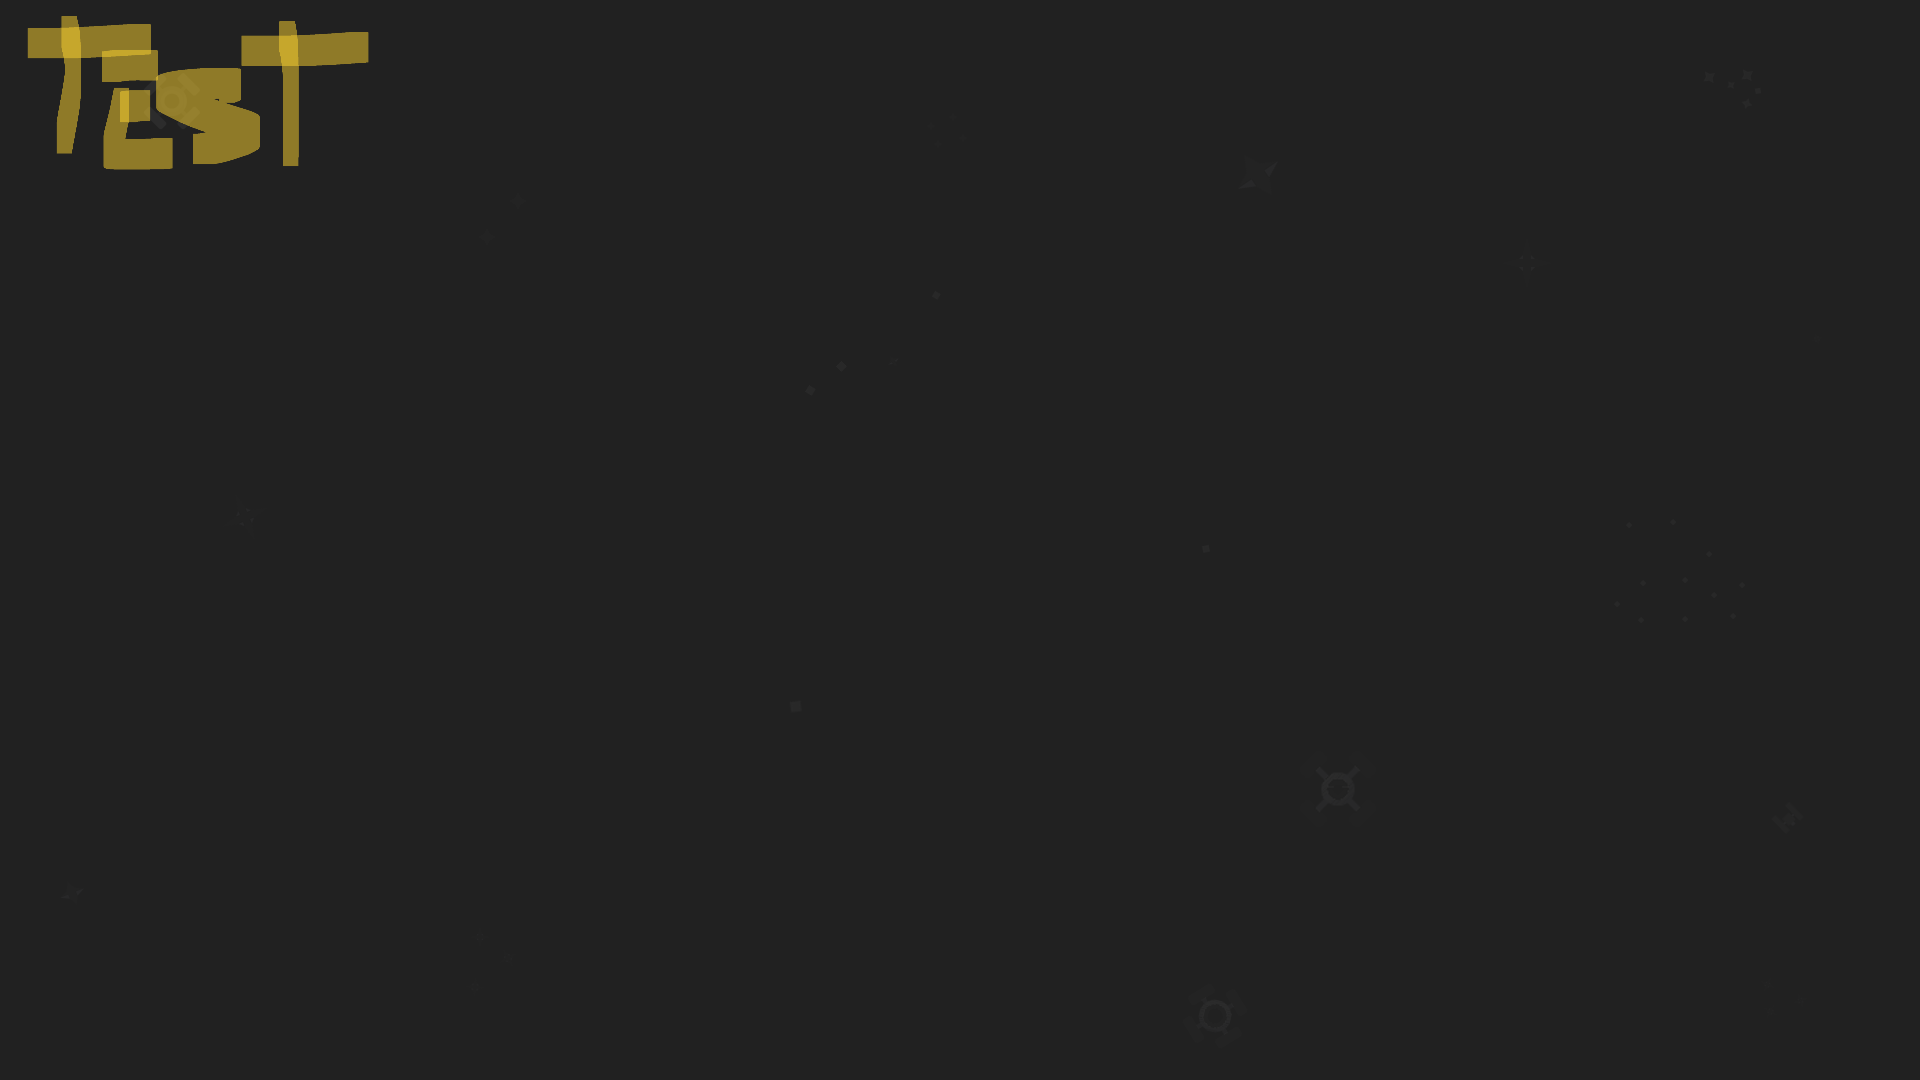
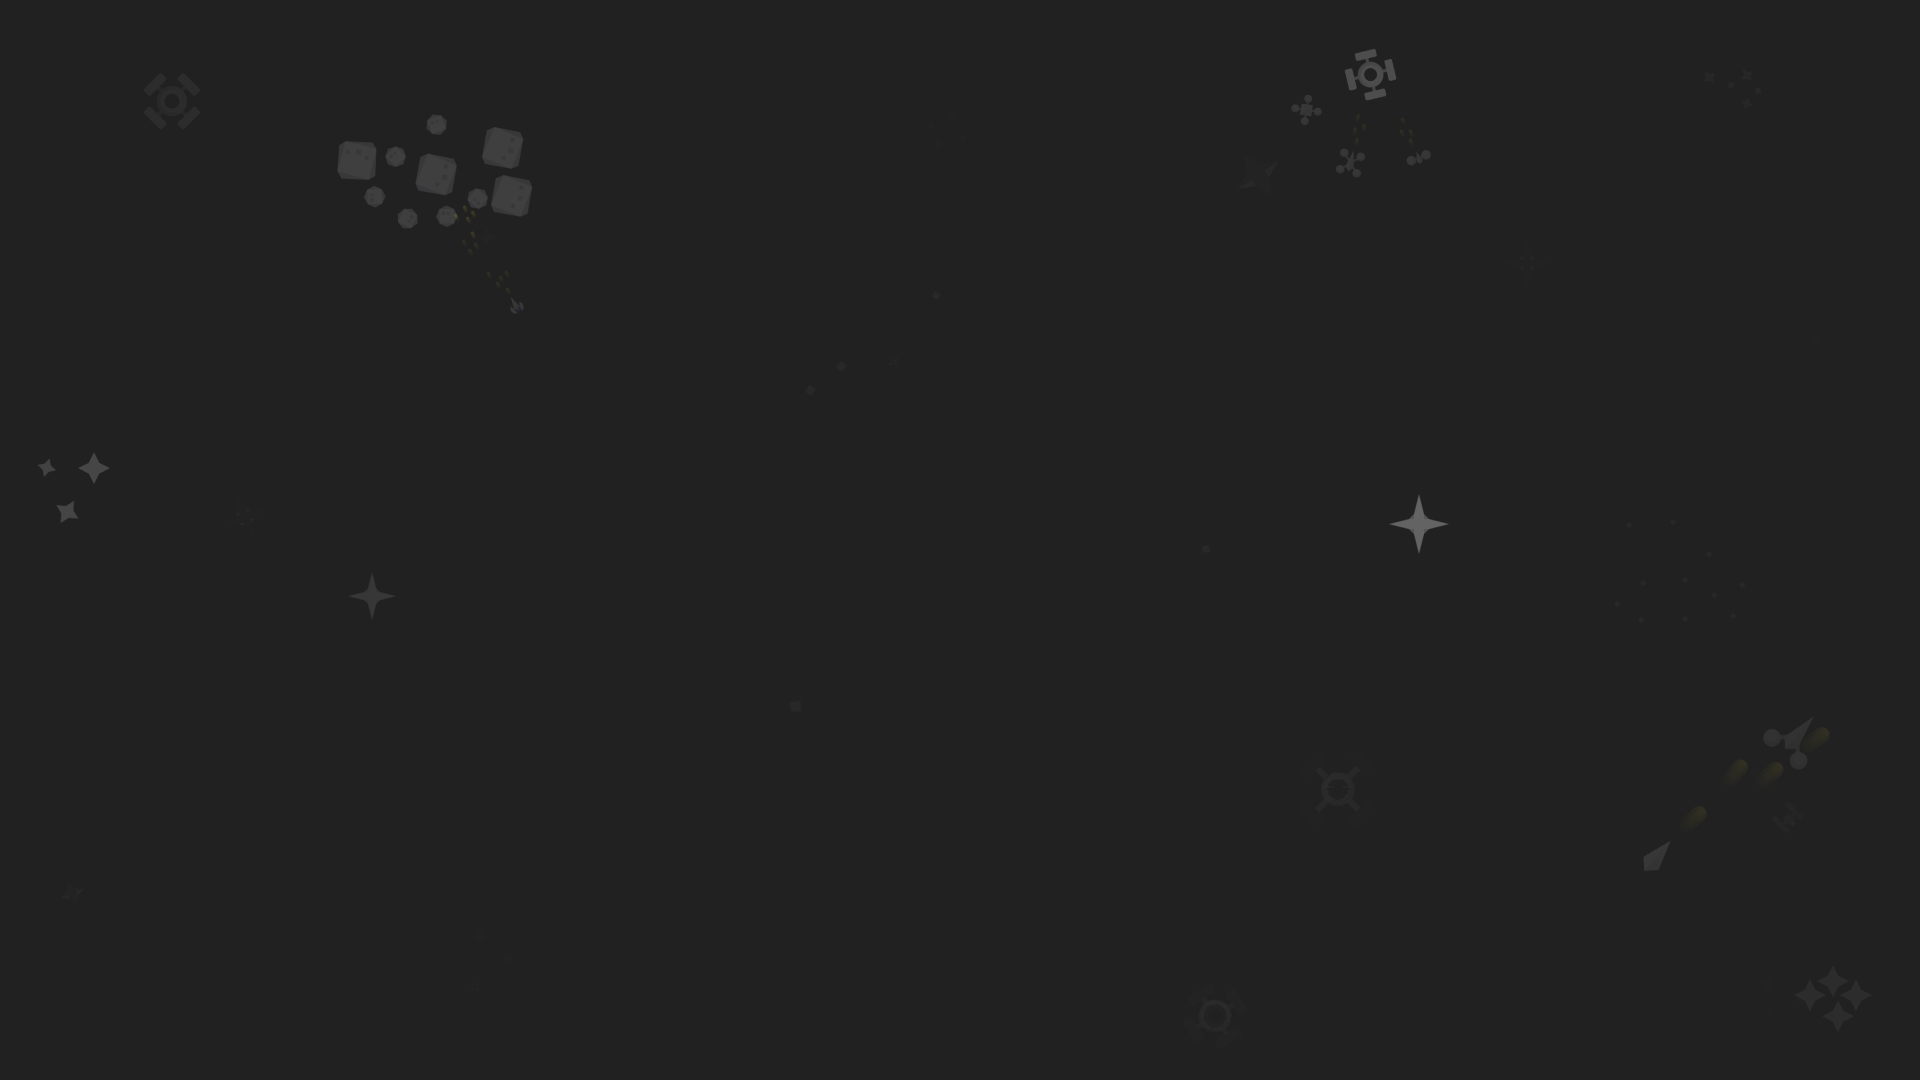
Splash Upgrade And Background Upgrade

diff --git a/src/SingletonManagers/ResourceManager.h b/src/SingletonManagers/ResourceManager.h
@@ -21,6 +21,8 @@ public:
 
 	sf::Texture* GetLifeUITexture();
 	sf::Texture* GetLifeLostUITexture();
+	sf::Texture* GetEnterUITexture();
+
 
 	sf::Font* GetOxaniumSemiBoldFont();
 
@@ -52,8 +54,10 @@ private:
 	sf::Texture* smallAsteroidTexture = nullptr;
 	sf::Texture* musicSwitchTexture = nullptr;
 	sf::Texture* impactTexture = nullptr;
+
 	sf::Texture* lifeUITexture = nullptr;
 	sf::Texture* lifeLostUITexture = nullptr;
+	sf::Texture* enterUITexture = nullptr;
 
 	sf::Font* oxaniumSemiBoldFont = nullptr;
 
@@ -66,9 +70,10 @@ private:
 	sf::Music* gameplayMusic = nullptr;
 	sf::Music* gameOverMusic = nullptr;
 
-
+	//Icon
 	const std::string pathImageIcon = "res/assets/System/iconBlack2.png";
 
+	//Gameplay
 	const std::string pathTextureSplash = "res/assets/Background/Splash.png";
 	const std::string pathTextureMenuBG = "res/assets/Background/Background00.png";
 	const std::string pathTexturePauseBG = "res/assets/Background/PauseBackground.png";
@@ -79,16 +84,22 @@ private:
 	const std::string pathTextureSmall = "res/assets/Enemies/MeteorSmall.png";
 	const std::string pathTextureMusicSwitch = "res/assets/UI/MusicMuteSwitch.png";
 	const std::string pathTextureHitEffect = "res/assets/Effects/HitEffect.png";
+
+	//UI
 	const std::string pathTextureLifeUI = "res/assets/UI/LifeUI.png";
 	const std::string pathTextureLifeLostUI = "res/assets/UI/LifelostUI.png";
+	const std::string pathTextureEnterUI = "res/assets/Background/Enter.png";
 
+	//Fonts
 	const std::string pathFontOxaniumSemiBold = "res/assets/Fonts/Oxanium-SemiBold.ttf";
 
+	//Sounds
 	const std::string pathSoundShootBuffer = "res/assets/Audio/SFX/PulseShot.wav";
 	const std::string pathSoundEngineBuffer = "res/assets/Audio/SFX/spaceEngineLow_001.ogg";
 	const std::string pathAsteroidDestroyedBuffer = "res/assets/Audio/SFX/bong_001.ogg";
 	const std::string pathPlayerDestroyedBuffer = "res/assets/Audio/SFX/explosionCrunch_004.ogg";
-	
+
+	//Musics
 	const std::string pathMusicMenu = "res/assets/Audio/Music/MenuElectronicChilledCut60.wav";
 	const std::string pathMusicGameplay = "res/assets/Audio/Music/GameplayElectronicRoutinecut60.wav";
 	const std::string pathMusicGameOver = "res/assets/Audio/Music/GameOverElectronicDefeatcut60.wav";

diff --git a/src/Program/SplashScreen.cpp b/src/Program/SplashScreen.cpp
@@ -7,7 +7,9 @@ SplashScreen::SplashScreen(GameState* gameState)
 {
 	this->gameState = gameState;
 	splashTexture = ResourceManager::getInstance().GetSplashTexture();
+	enterTexture = ResourceManager::getInstance().GetEnterUITexture();
 	InitializeBackground();
+	InitializeEnter();
 }
 
 SplashScreen::~SplashScreen()
@@ -30,14 +32,14 @@ void SplashScreen::Update()
 		firstTime = false;
 		splashTime.restart();
 	}
-
+	UpdateAnimation();
 	CheckSplashTime();
-
 }
 
 void SplashScreen::Draw(sf::RenderWindow& window)
 {
 	window.draw(splashSprite);
+	window.draw(enterSprite);
 }
 
 void SplashScreen::InitializeBackground()
@@ -54,14 +56,47 @@ void SplashScreen::InitializeBackground()
 		std::cout << "DEBUG: Error!!!!!!!! LOADING BACKGROUND TEXTURE" << std::endl;
 }
 
+void SplashScreen::InitializeEnter()
+{
+	if (enterTexture != nullptr)
+	{
+		sf::IntRect rect(0, 0, 96, 96);
+		float scale = 1.0f;
+		enterSprite.setTexture(*enterTexture);
+		enterSprite.setTextureRect(rect);
+		enterSprite.setScale(scale, scale);
+		sf::FloatRect bounds = enterSprite.getLocalBounds();
+		enterSprite.setOrigin(bounds.width / 2.0f, bounds.height / 2.0f);
+		enterSprite.setPosition(ScreenResolution::SCREEN_WIDTH_720P * 0.80, ScreenResolution::SCREEN_HEIGHT_720P * 0.59);
+	}
+	else
+		std::cout << "DEBUG: Error!!!!!!!! LOADING ENTER TEXTURE" << std::endl;
+}
+
 void SplashScreen::SkipSplash()
 {
 	*gameState = GameState::MainMenu;
 }
 
+void SplashScreen::UpdateAnimation()
+{
+	if (animTime.getElapsedTime().asMilliseconds() > 200)
+	{
+		intRectX = enterSprite.getTextureRect().left;
+
+		if (intRectX == 0)
+			intRectX = 96;
+		else
+		{
+			intRectX = 0;
+		}
+		enterSprite.setTextureRect(sf::IntRect(intRectX, 0, 96, 96));
+		animTime.restart();
+	}
+}
+
 void SplashScreen::CheckSplashTime()
 {
-	if (splashTime.getElapsedTime().asSeconds() > 2.5)
+	if (splashTime.getElapsedTime().asSeconds() > splashTimer)
 		SkipSplash();
-
 }

diff --git a/src/SingletonManagers/ResourceManager.cpp b/src/SingletonManagers/ResourceManager.cpp
@@ -66,6 +66,12 @@ ResourceManager::~ResourceManager()
 		smallAsteroidTexture = nullptr;
 	}
 
+	if (enterUITexture != nullptr)
+	{
+		delete enterUITexture;
+		enterUITexture = nullptr;
+	}
+
 	if (musicSwitchTexture != nullptr)
 	{
 		delete musicSwitchTexture;
@@ -251,6 +257,17 @@ sf::Texture* ResourceManager::GetLifeLostUITexture()
 	return lifeLostUITexture;
 }
 
+sf::Texture* ResourceManager::GetEnterUITexture()
+{
+	if (enterUITexture == nullptr)
+	{
+		enterUITexture = new sf::Texture;
+		enterUITexture = LoadTexture(pathTextureEnterUI);
+	}
+
+	return enterUITexture;
+}
+
 sf::Font* ResourceManager::GetOxaniumSemiBoldFont()
 {
 	if (oxaniumSemiBoldFont == nullptr)
@@ -425,6 +442,7 @@ void ResourceManager::LoadAllTextures()
 	LoadTexture(pathTextureHitEffect);
 	LoadTexture(pathTextureLifeUI);
 	LoadTexture(pathTextureLifeLostUI);
+	LoadTexture(pathTextureEnterUI);
 }
 
 void ResourceManager::LoadAllSoundBuffers()

diff --git a/src/Program/SplashScreen.h b/src/Program/SplashScreen.h
@@ -17,12 +17,19 @@ private:
 	GameState* gameState;
 
 	sf::Texture* splashTexture;
+	sf::Texture* enterTexture;
 	sf::Sprite splashSprite;
+	sf::Sprite enterSprite;
 	sf::Clock splashTime;
+	sf::Clock animTime;
 	bool firstTime = true;
+	int intRectX = 0;
+	float splashTimer = 7.0f;
 
 
 	void InitializeBackground();
+	void InitializeEnter();
 	void SkipSplash();
+	void UpdateAnimation();
 	void CheckSplashTime();
 };

diff --git a/src/Entities/Player.cpp b/src/Entities/Player.cpp
@@ -50,8 +50,8 @@ void Player::Input(sf::Event event)
 		if (event.key.code == sf::Keyboard::R)
 		{
 			//DEBUG ONLY
-			screenShake->StartShake(0.2f, 5.0f);
-			SetIsAlive(false);
+			//screenShake->StartShake(0.2f, 5.0f);
+			//SetIsAlive(false);
 		}
 	}
 
